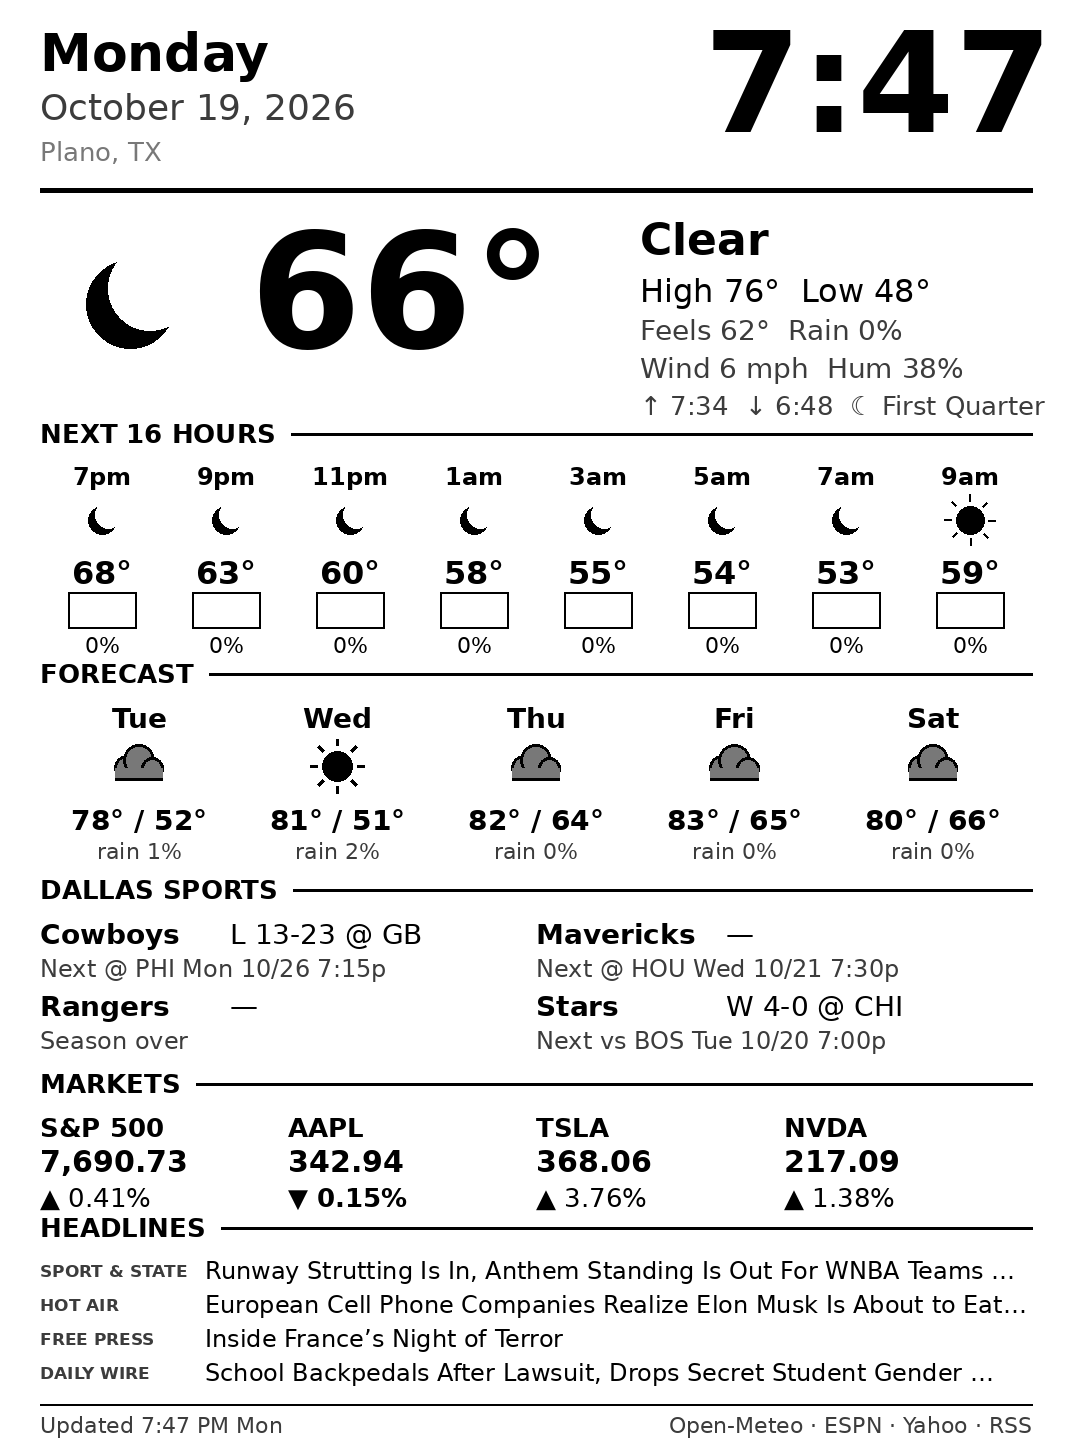
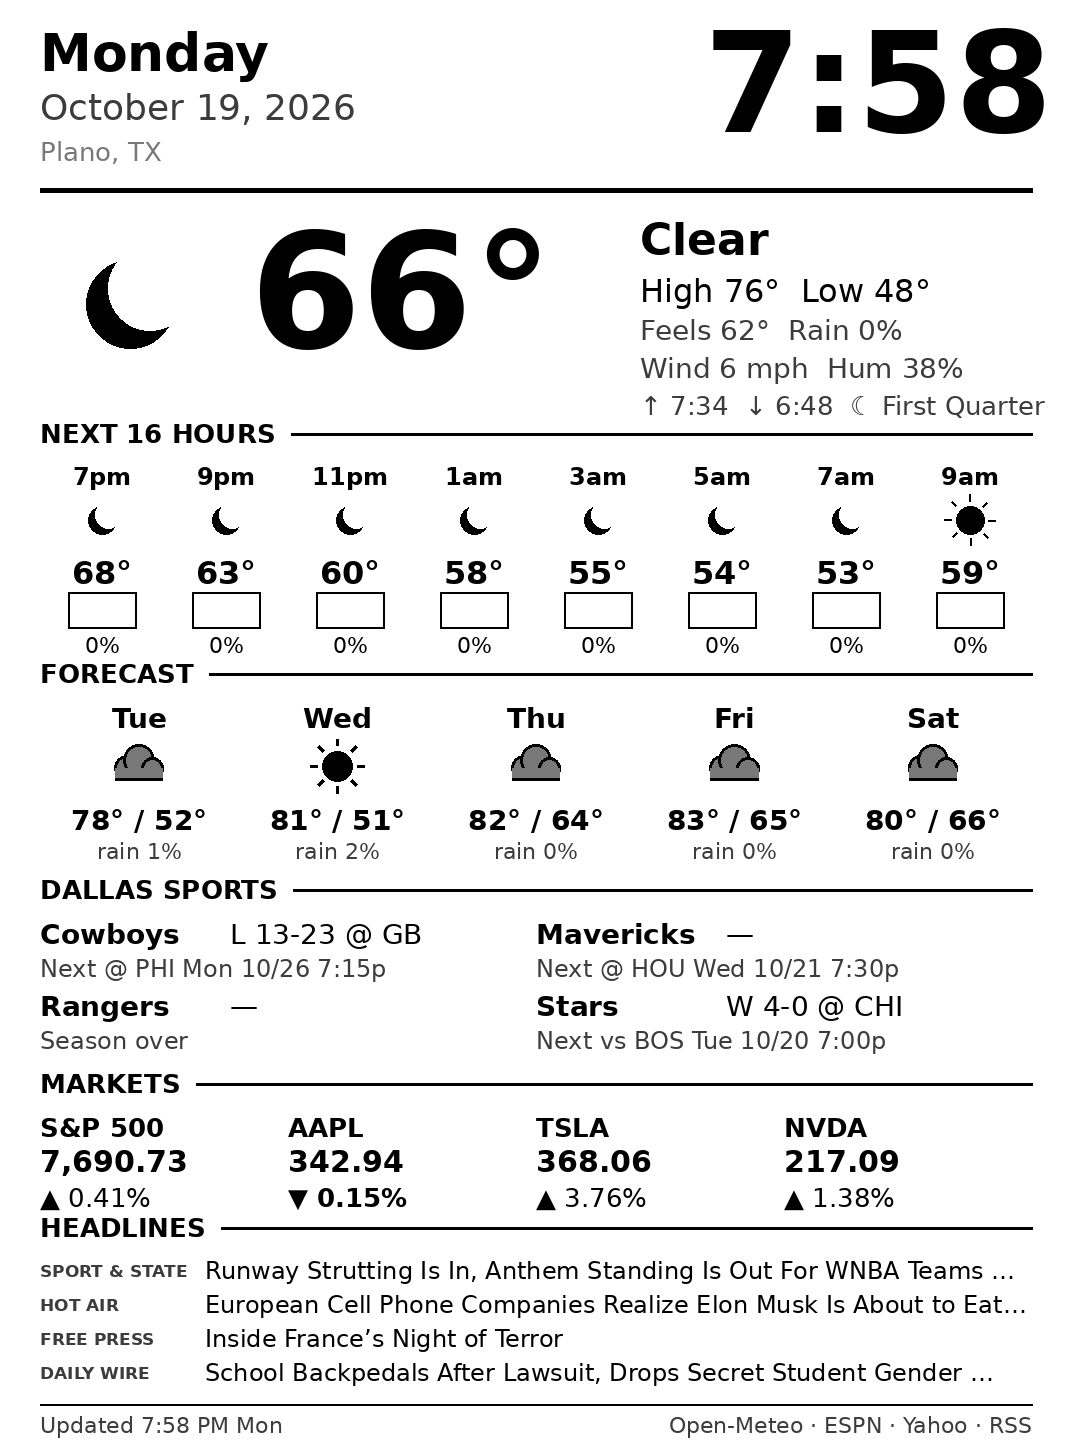
Publish dash-WxH.png for common Kindle sizes (fit+pad); dash.png=600x800

Changed region(s): [[0.8004, 0.0, 0.9851, 0.0932], [0.1539, 0.9634, 0.1847, 0.9945]]

diff --git a/render.py b/render.py
@@ -9,7 +9,9 @@ from PIL import Image, ImageDraw, ImageFont
 W, H = 1072, 1448
 TZ = ZoneInfo("America/Chicago")
 LAT, LON, PLACE = 33.0198, -96.6989, "Plano, TX"
-CLOCK_BOX = (560, 14, 1052, 180)   # keep in sync with OVERLAY_* in Kindle config.sh
+CLOCK_BOX = (560, 14, 1052, 180)
+SIZES = [(600, 800), (758, 1024), (1072, 1448), (1236, 1648), (1264, 1680), (1860, 2480)]
+DEFAULT_SIZE = (600, 800)   # keep in sync with OVERLAY_* in Kindle config.sh
 TEAMS = [("football/nfl", "dal", "Cowboys"), ("basketball/nba", "dal", "Mavericks"),
          ("baseball/mlb", "tex", "Rangers"), ("hockey/nhl", "dal", "Stars")]
 TICKERS = [("^GSPC", "S&P 500"), ("AAPL", "AAPL"), ("TSLA", "TSLA"), ("NVDA", "NVDA")]
@@ -289,11 +291,17 @@ def render(out):
     rtext(d, W - 40, H - 36, "Open-Meteo · ESPN · Yahoo · RSS", font(22), DARK)
 
     base, ext = os.path.splitext(out)
-    im.save(base + "-1072x1448" + ext, optimize=True)            # true PW3 (300 ppi) size
-    small = im.resize((758, 1024), Image.LANCZOS)                 # PW1/PW2-class 212 ppi framebuffer
-    small.save(base + "-758x1024" + ext, optimize=True)
-    # dash.png = size of the user's actual framebuffer (fbink reported/observed 758x1024)
-    {"758": small, "1072": im}[os.environ.get("KDASH_WIDTH", "758")].save(out, optimize=True)
+    def fitted(w, h):
+        if (w, h) == im.size: return im
+        k = min(w / W, h / H)
+        sc = im.resize((round(W * k), round(H * k)), Image.LANCZOS)
+        c = Image.new("L", (w, h), WHITE); c.paste(sc, ((w - sc.width) // 2, (h - sc.height) // 2))
+        return c
+    # Common Kindle framebuffer sizes; the Kindle picks dash-<W>x<H>.png from `fbink -e`.
+    for w, h in SIZES:
+        fitted(w, h).save(f"{base}-{w}x{h}{ext}", optimize=True)
+    dw, dh = DEFAULT_SIZE
+    fitted(dw, dh).save(out, optimize=True)     # dash.png fallback = size seen in user's photo
     print("wrote", out, "and size variants")
 
 if __name__ == "__main__":
